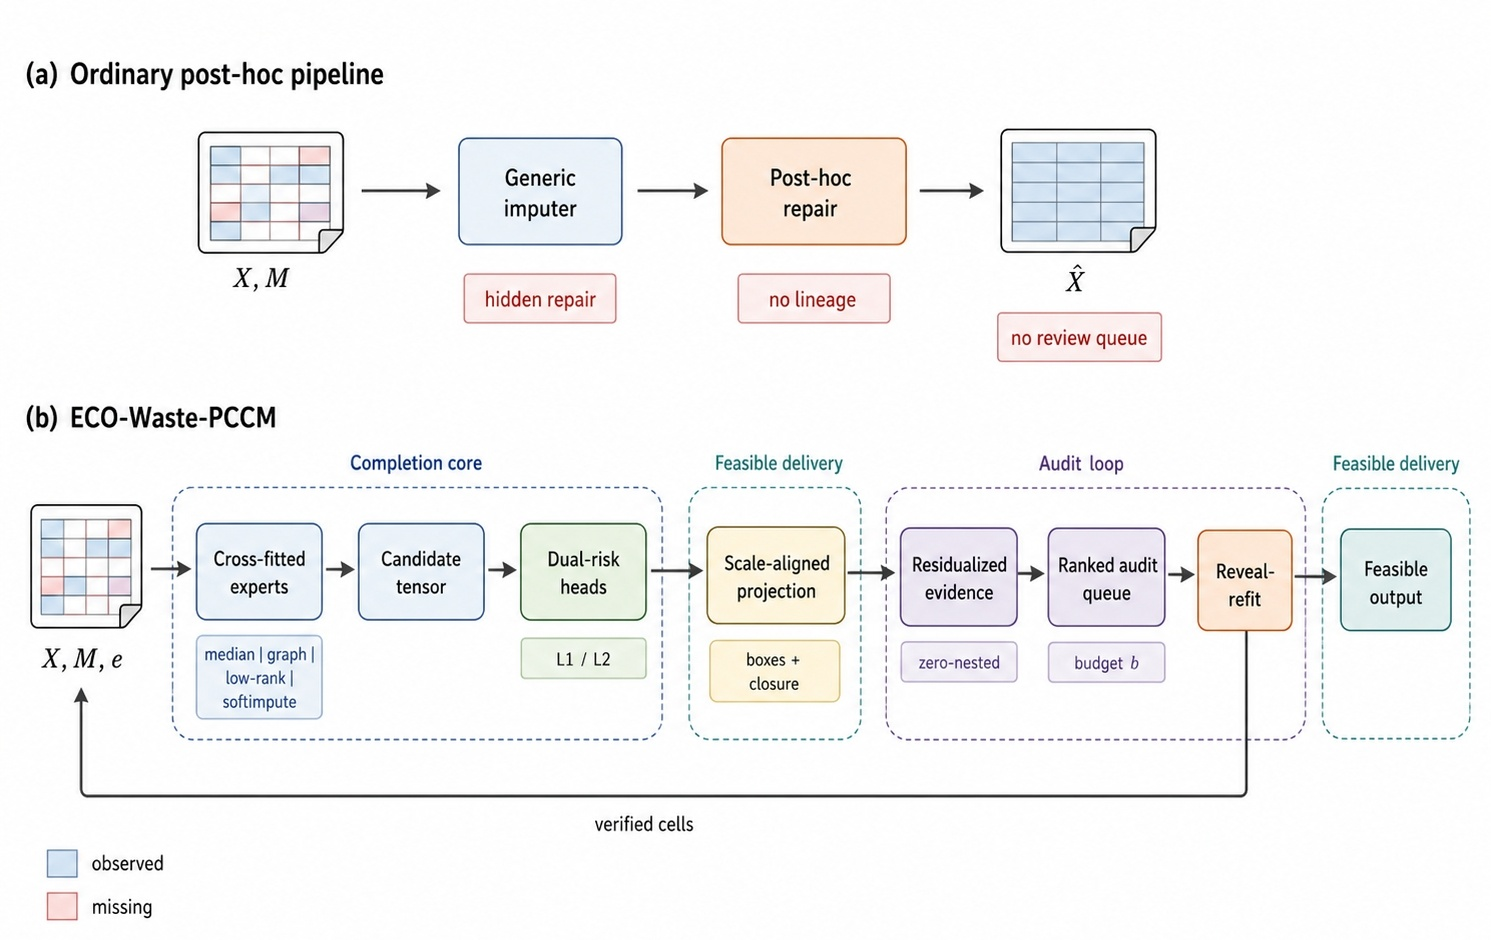
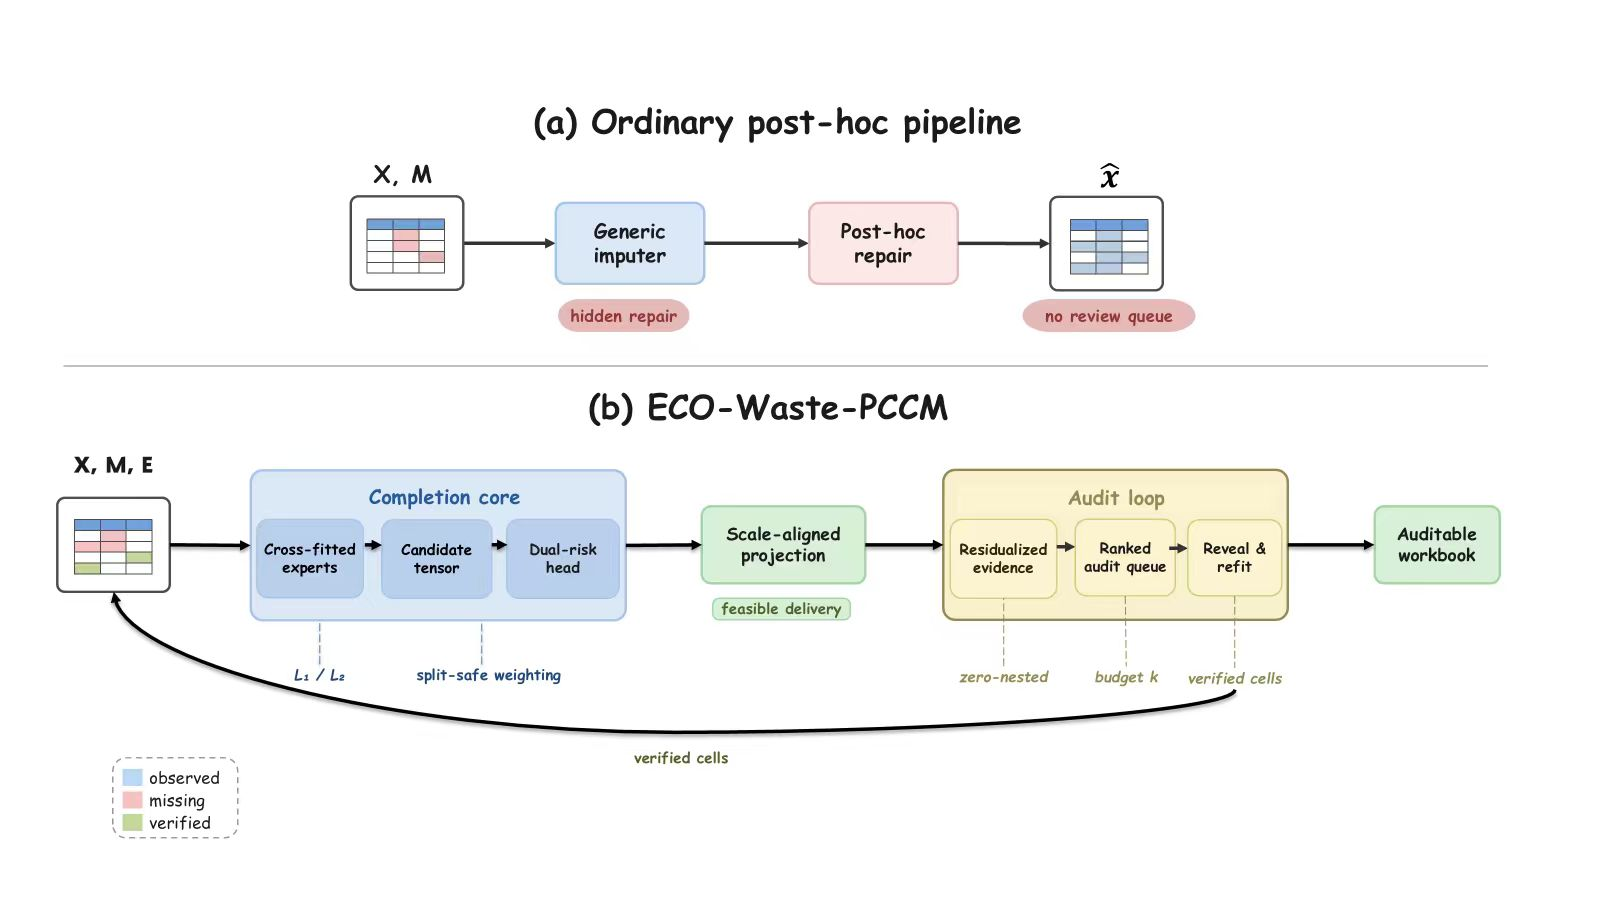
Update README project figure

diff --git a/README.md b/README.md
@@ -10,9 +10,9 @@ The repository is intentionally small: it contains the data-processing,
 completion, projection, metric, and audit-queue code required to run the core
 workflow end to end.
 
-## Overview
-
-![ECO-Waste-PCCM overview](assets/figures/ecowaste_pccm_overview.jpeg)
+<p align="center">
+  <img src="assets/figures/ecowaste_pccm_overview.jpeg" alt="ECO-Waste-PCCM" width="900">
+</p>
 
 ## Project Layout
 